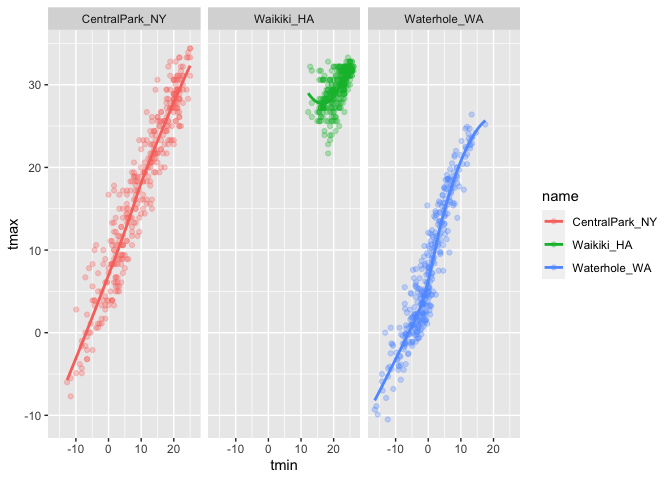
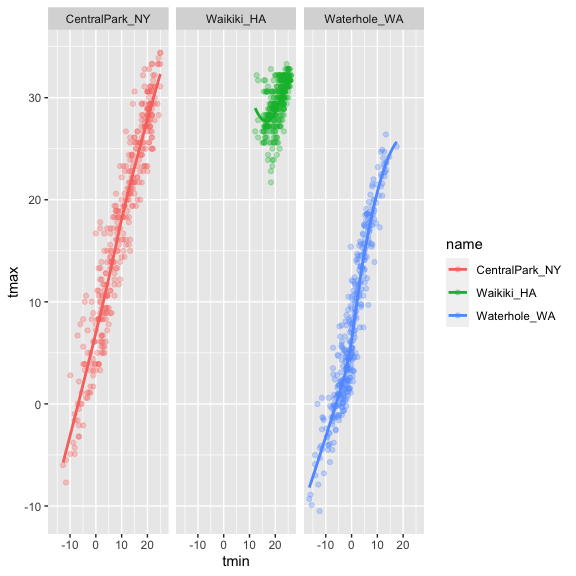
set the fig width and height

diff --git a/viz_part1.md b/viz_part1.md
@@ -18,6 +18,11 @@ library(tidyverse)
 
 ``` r
 library(ggridges)
+knitr::opts_chunk$set(
+  fig.width = 6,
+  fig.height = 6,
+  out.width = "90%"
+)
 ```
 
 ``` r
@@ -72,7 +77,7 @@ weather_df %>%
 
     ## Warning: Removed 15 rows containing missing values (geom_point).
 
-![](viz_part1_files/figure-gfm/unnamed-chunk-3-1.png)<!-- -->
+<img src="viz_part1_files/figure-gfm/unnamed-chunk-3-1.png" width="90%" />
 
 you can save ggplots
 
@@ -101,7 +106,7 @@ weather_df %>%
 
     ## Warning: Removed 15 rows containing missing values (geom_point).
 
-![](viz_part1_files/figure-gfm/unnamed-chunk-5-1.png)<!-- -->
+<img src="viz_part1_files/figure-gfm/unnamed-chunk-5-1.png" width="90%" />
 
 Let’s make one more scatterplot
 
@@ -119,7 +124,7 @@ weather_df %>%
 
     ## Warning: Removed 3 rows containing missing values (geom_point).
 
-![](viz_part1_files/figure-gfm/unnamed-chunk-6-1.png)<!-- -->
+<img src="viz_part1_files/figure-gfm/unnamed-chunk-6-1.png" width="90%" />
 
 ## Use data manipulation as part of this
 
@@ -134,7 +139,7 @@ weather_df %>%
   geom_point()
 ```
 
-![](viz_part1_files/figure-gfm/unnamed-chunk-7-1.png)<!-- -->
+<img src="viz_part1_files/figure-gfm/unnamed-chunk-7-1.png" width="90%" />
 
 ## Stacking geoms
 
@@ -150,7 +155,7 @@ weather_df %>%
 
     ## Warning: Removed 3 rows containing non-finite values (stat_smooth).
 
-![](viz_part1_files/figure-gfm/unnamed-chunk-8-1.png)<!-- -->
+<img src="viz_part1_files/figure-gfm/unnamed-chunk-8-1.png" width="90%" />
 
 ``` r
 weather_df %>% 
@@ -160,7 +165,7 @@ weather_df %>%
 
     ## Warning: Removed 15 rows containing non-finite values (stat_binhex).
 
-![](viz_part1_files/figure-gfm/unnamed-chunk-9-1.png)<!-- -->
+<img src="viz_part1_files/figure-gfm/unnamed-chunk-9-1.png" width="90%" />
 
 ## Univariate plots
 
@@ -175,7 +180,7 @@ weather_df %>%
 
     ## Warning: Removed 3 rows containing non-finite values (stat_bin).
 
-![](viz_part1_files/figure-gfm/unnamed-chunk-10-1.png)<!-- -->
+<img src="viz_part1_files/figure-gfm/unnamed-chunk-10-1.png" width="90%" />
 
 ``` r
 weather_df %>% 
@@ -185,7 +190,7 @@ weather_df %>%
 
     ## Warning: Removed 3 rows containing non-finite values (stat_density).
 
-![](viz_part1_files/figure-gfm/unnamed-chunk-11-1.png)<!-- -->
+<img src="viz_part1_files/figure-gfm/unnamed-chunk-11-1.png" width="90%" />
 
 Still with `tmax` and `name`
 
@@ -197,7 +202,7 @@ weather_df %>%
 
     ## Warning: Removed 3 rows containing non-finite values (stat_boxplot).
 
-![](viz_part1_files/figure-gfm/unnamed-chunk-12-1.png)<!-- -->
+<img src="viz_part1_files/figure-gfm/unnamed-chunk-12-1.png" width="90%" />
 
 Some people like violin plots???
 
@@ -209,7 +214,7 @@ weather_df %>%
 
     ## Warning: Removed 3 rows containing non-finite values (stat_ydensity).
 
-![](viz_part1_files/figure-gfm/unnamed-chunk-13-1.png)<!-- -->
+<img src="viz_part1_files/figure-gfm/unnamed-chunk-13-1.png" width="90%" />
 
 What about ridges …
 
@@ -223,4 +228,26 @@ weather_df %>%
 
     ## Warning: Removed 3 rows containing non-finite values (stat_density_ridges).
 
-![](viz_part1_files/figure-gfm/unnamed-chunk-14-1.png)<!-- -->
+<img src="viz_part1_files/figure-gfm/unnamed-chunk-14-1.png" width="90%" />
+
+## Embeding plots
+
+``` r
+weather_df %>% 
+  ggplot(aes(x = tmax, y = tmin, color = name)) +
+  geom_point(alpha = .3)
+```
+
+    ## Warning: Removed 15 rows containing missing values (geom_point).
+
+<img src="viz_part1_files/figure-gfm/unnamed-chunk-15-1.png" width="90%" />
+
+``` r
+weather_df %>% 
+  ggplot(aes(x = tmax, y = tmin, color = name)) +
+  geom_point(alpha = .3)
+```
+
+    ## Warning: Removed 15 rows containing missing values (geom_point).
+
+<img src="viz_part1_files/figure-gfm/unnamed-chunk-16-1.png" width="90%" />
